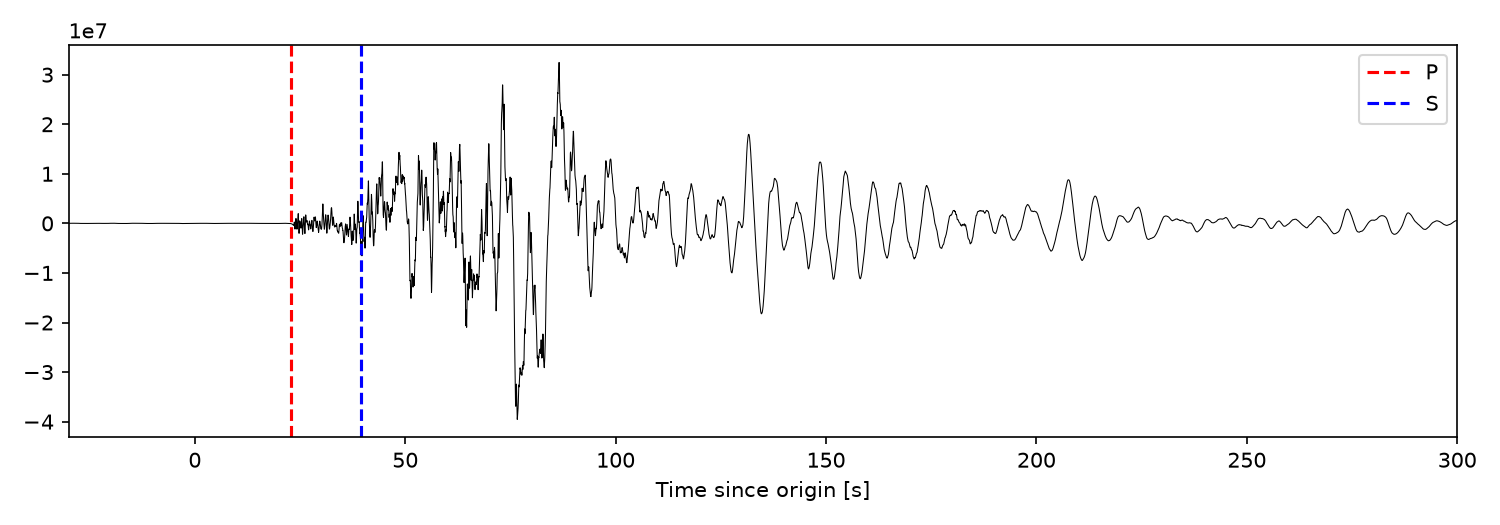
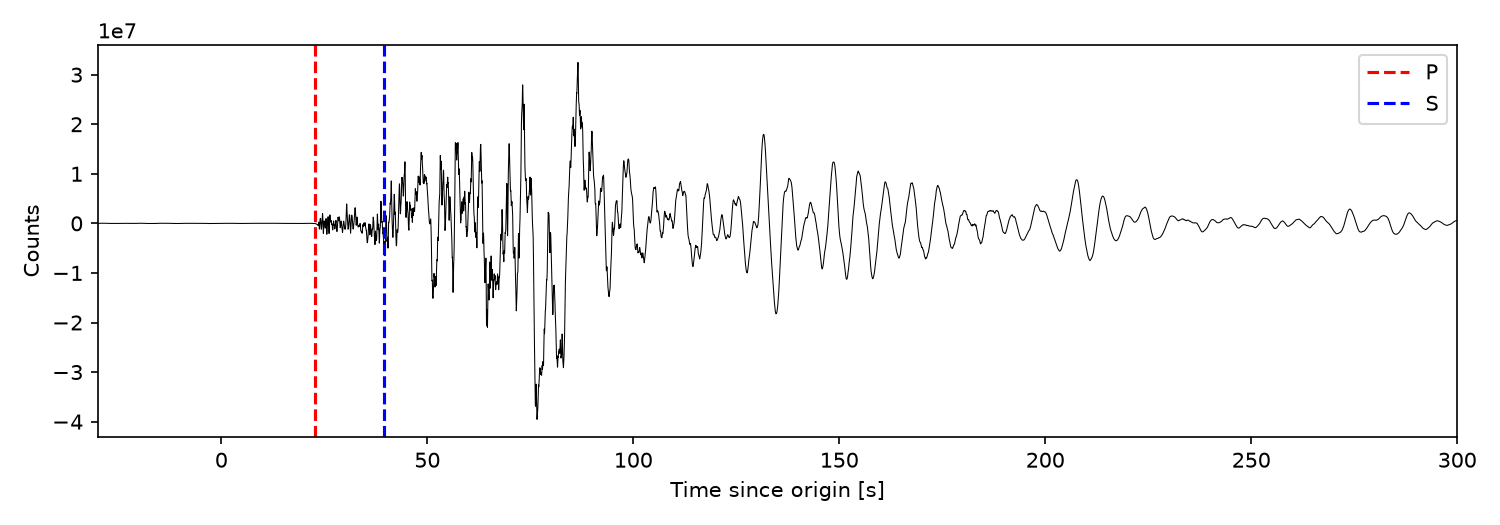
Add line-by-line comments to the tutorial scripts
Explain each line for beginners, split chained plot/save calls into
separate lines, and print travel times in a readable form.

diff --git a/02_plot.py b/02_plot.py
@@ -1,46 +1,90 @@
 """02: 波形をグラフにして、P 波・S 波の到着時刻を重ねる"""
-from pathlib import Path
 
-import matplotlib.pyplot as plt
-from obspy import read, read_events, read_inventory
-from obspy.geodetics import gps2dist_azimuth, kilometers2degrees
-from obspy.taup import TauPyModel
+# ---------------------------------------------------------------
+# ライブラリの読み込み
+# ---------------------------------------------------------------
+from pathlib import Path  # フォルダやファイルのパスを扱う標準ライブラリ
 
+import matplotlib.pyplot as plt  # グラフを描くライブラリ
+from obspy import read, read_events, read_inventory  # 波形・震源情報・観測点情報を読み込む関数
+from obspy.geodetics import gps2dist_azimuth, kilometers2degrees  # 2 点間の距離を計算する関数
+from obspy.taup import TauPyModel  # 地震波が届く時刻（走時）を計算するクラス
+
+# 図を保存する fig フォルダを作る（すでにあれば何もしない）
 Path("fig").mkdir(exist_ok=True)
 
-st = read("data/noto_IU.MAJO.mseed")
-inv = read_inventory("data/IU.MAJO.xml")
-origin = read_events("data/noto_event.xml")[0].preferred_origin()
+# ---------------------------------------------------------------
+# 01 で保存したデータを読み込む
+# ---------------------------------------------------------------
+st = read("data/noto_IU.MAJO.mseed")        # 波形（Stream: 3 本の Trace が入っている）
+inv = read_inventory("data/IU.MAJO.xml")    # 観測点情報（位置・地震計の特性）
+events = read_events("data/noto_event.xml")  # 震源情報の一覧（今回は 1 件）
+origin = events[0].preferred_origin()        # 1 件目の地震の震源（発生時刻・緯度・経度・深さ）
 
-# plot() 一発
-st.plot(fig=plt.figure(figsize=(8, 6))).savefig("fig/01_raw_stream.png")
+# ---------------------------------------------------------------
+# 1. plot() で 3 方向の波形をまとめて描く
+# ---------------------------------------------------------------
+fig1 = plt.figure(figsize=(8, 6))     # 横 8 × 縦 6 インチの図を用意する
+st.plot(fig=fig1)                     # その図に、3 本の波形を上下に並べて描く
+fig1.savefig("fig/01_raw_stream.png")  # 図を画像ファイルとして保存する
 
-# 震源から観測点までの距離
+# ---------------------------------------------------------------
+# 2. 震源から観測点までの距離を計算する
+# ---------------------------------------------------------------
+# 観測点の緯度・経度を取り出す
 coords = inv.get_coordinates(st[0].id, origin.time)
-dist_m, _, _ = gps2dist_azimuth(origin.latitude, origin.longitude,
-                                coords["latitude"], coords["longitude"])
 
-# P 波・S 波が届く時刻を計算
-arrivals = TauPyModel("iasp91").get_travel_times(
-    source_depth_in_km=origin.depth / 1000,
-    distance_in_degree=kilometers2degrees(dist_m / 1000),
-    phase_list=["p", "P", "s", "S"],
+# 震源（緯度・経度）と観測点（緯度・経度）の距離を計算する
+dist_m, _, _ = gps2dist_azimuth(
+    origin.latitude,       # 震源の緯度
+    origin.longitude,      # 震源の経度
+    coords["latitude"],    # 観測点の緯度
+    coords["longitude"],   # 観測点の経度
+)  # 戻り値は (距離[m], 方位角, 逆方位角)。今回は距離だけ使う
+
+# ---------------------------------------------------------------
+# 3. P 波・S 波が届く時刻を計算する
+# ---------------------------------------------------------------
+# 地球内部の標準的な速度構造モデル「iasp91」を使う
+model = TauPyModel("iasp91")
+
+# 震源の深さと距離から、各地震波が届くまでの時間を計算する
+arrivals = model.get_travel_times(
+    source_depth_in_km=origin.depth / 1000,                 # 震源の深さ（m → km に変換）
+    distance_in_degree=kilometers2degrees(dist_m / 1000),   # 距離（m → km → 角度[°] に変換）
+    phase_list=["p", "P", "s", "S"],                        # 計算する波の種類（小文字は浅い経路の波）
 )
-first = {}
-for arr in arrivals:
-    first.setdefault(arr.name.upper(), arr.time)
-print(first)
 
-# 地震発生からの秒数を横軸にしてプロット
-tr = st.select(channel="BHZ")[0]
-plt.figure(figsize=(10, 3.5))
-plt.plot(tr.times(reftime=origin.time), tr.data, "k-", lw=0.5)
-for name, sec in first.items():
-    plt.axvline(sec, color="red" if name == "P" else "blue", ls="--", label=name)
-plt.xlim(-30, 300)
-plt.xlabel("Time since origin [s]")
-plt.legend()
-plt.tight_layout()
-plt.savefig("fig/02_bhz_with_taup.png", dpi=150)
+# 「P 系」「S 系」それぞれで、いちばん早く届く時刻だけを辞書に入れる
+first = {}                                         # 例: {"P": 22.8, "S": 39.5}
+for arr in arrivals:                               # 計算結果を早く届く順に 1 つずつ見る
+    first.setdefault(arr.name.upper(), arr.time)   # 名前を大文字にそろえ、まだ無ければ登録する
 
-plt.show()  # 図をウィンドウで表示（閉じるとスクリプトが終わります）
+# 計算結果を表示する（地震発生から何秒後に届くか）
+for name, sec in first.items():                      # P 波・S 波それぞれについて
+    print(f"{name} 波: 地震発生から {sec:.1f} 秒後")  # 小数第 1 位まで表示する
+
+# ---------------------------------------------------------------
+# 4. 上下方向の波形に、P 波・S 波の時刻を重ねて描く
+# ---------------------------------------------------------------
+tr = st.select(channel="BHZ")[0]      # 3 本の中から上下方向（Z）の波形を 1 本取り出す
+t = tr.times(reftime=origin.time)     # 横軸用の時刻: 地震発生を 0 秒とした経過時間の配列
+
+fig2 = plt.figure(figsize=(10, 3.5))   # 横長の図を用意する
+plt.plot(t, tr.data, "k-", lw=0.5)     # 波形を黒い細線で描く（tr.data は振幅の NumPy 配列）
+
+for name, sec in first.items():                   # P 波・S 波それぞれについて
+    color = "red" if name == "P" else "blue"      # P 波は赤、S 波は青にする
+    plt.axvline(sec, color=color, ls="--", label=name)  # 届く時刻に縦の点線を引く
+
+plt.xlim(-30, 300)                        # 横軸の範囲: 地震発生の 30 秒前 〜 300 秒後
+plt.xlabel("Time since origin [s]")       # 横軸のラベル: 地震発生からの経過時間
+plt.ylabel("Counts")                      # 縦軸のラベル: 地震計の生の出力値
+plt.legend()                              # 凡例（P / S）を表示する
+plt.tight_layout()                        # 文字が見切れないように余白を調整する
+fig2.savefig("fig/02_bhz_with_taup.png", dpi=150)  # 画像ファイルとして保存する
+
+# ---------------------------------------------------------------
+# 作った図をウィンドウで表示する（すべて閉じるとスクリプトが終わる）
+# ---------------------------------------------------------------
+plt.show()

diff --git a/04_spectrum.py b/04_spectrum.py
@@ -1,34 +1,65 @@
 """04: 周波数を調べる（FFT・スペクトログラム）"""
-import matplotlib.pyplot as plt
-import numpy as np
-from obspy import read, read_events
 
-st_vel = read("data/noto_IU.MAJO_vel.mseed")  # 03 で作った速度波形
-origin = read_events("data/noto_event.xml")[0].preferred_origin()
+# ---------------------------------------------------------------
+# ライブラリの読み込み
+# ---------------------------------------------------------------
+import matplotlib.pyplot as plt  # グラフを描くライブラリ
+import numpy as np  # 数値計算ライブラリ（FFT に使う）
+from obspy import read, read_events  # 波形・震源情報を読み込む関数
 
-tr = st_vel.select(channel="BHZ")[0]
-fs = tr.stats.sampling_rate
+# ---------------------------------------------------------------
+# データを読み込む
+# ---------------------------------------------------------------
+st_vel = read("data/noto_IU.MAJO_vel.mseed")  # 03 で保存した速度 [m/s] の波形
+events = read_events("data/noto_event.xml")   # 震源情報の一覧（今回は 1 件）
+origin = events[0].preferred_origin()          # 1 件目の地震の震源（発生時刻など）
 
-# FFT で地震前と地震後を比べる
-noise = tr.slice(origin.time - 110, origin.time - 10)   # 地震前の 100 秒
-signal = tr.slice(origin.time + 10, origin.time + 110)  # 地震後の 100 秒
+tr = st_vel.select(channel="BHZ")[0]   # 上下方向（Z）の波形を 1 本取り出す
+fs = tr.stats.sampling_rate            # サンプリング周波数（1 秒あたりのデータ数。今回は 40）
 
-for w, label in [(noise, "before earthquake"), (signal, "after earthquake")]:
-    amp = np.abs(np.fft.rfft(w.data)) / fs
-    freq = np.fft.rfftfreq(w.stats.npts, d=1 / fs)
-    plt.loglog(freq[1:], amp[1:], label=label)
-plt.xlabel("Frequency [Hz]")
-plt.legend()
-plt.savefig("fig/04_fft.png", dpi=150)
+# ---------------------------------------------------------------
+# 1. FFT で「地震前」と「地震後」の周波数の成分を比べる
+# ---------------------------------------------------------------
+# 比べる 2 つの区間を切り出す（どちらも 100 秒間）
+noise = tr.slice(origin.time - 110, origin.time - 10)   # 地震前: 発生の 110 秒前 〜 10 秒前
+signal = tr.slice(origin.time + 10, origin.time + 110)  # 地震後: 発生の 10 秒後 〜 110 秒後
 
-# スペクトログラム
-fig, ax = plt.subplots(figsize=(10, 4))
-tr.slice(origin.time - 60, origin.time + 600).spectrogram(
-    log=True, wlen=20, per_lap=0.9, dbscale=True, axes=ax
+fig1 = plt.figure(figsize=(7, 4.5))   # 図を用意する
+
+for w, label in [(noise, "before earthquake"), (signal, "after earthquake")]:  # 2 つの区間を順に
+    amp = np.abs(np.fft.rfft(w.data)) / fs                # FFT して、各周波数の振幅を求める
+    freq = np.fft.rfftfreq(w.stats.npts, d=1 / fs)        # 振幅の配列に対応する周波数 [Hz] の配列
+    plt.loglog(freq[1:], amp[1:], label=label)            # 両対数グラフで描く（0 Hz は除く）
+
+plt.xlabel("Frequency [Hz]")        # 横軸のラベル: 周波数
+plt.ylabel("Amplitude")             # 縦軸のラベル: 振幅
+plt.legend()                        # 凡例（地震前 / 地震後）を表示する
+plt.tight_layout()                  # 文字が見切れないように余白を調整する
+fig1.savefig("fig/04_fft.png", dpi=150)  # 画像ファイルとして保存する
+
+# ---------------------------------------------------------------
+# 2. スペクトログラムで「いつ・どの周波数が強いか」を見る
+# ---------------------------------------------------------------
+fig2, ax = plt.subplots(figsize=(10, 4))   # 図と、描画する領域（ax）を用意する
+
+# 地震発生の 60 秒前 〜 600 秒後 を切り出す
+tr_part = tr.slice(origin.time - 60, origin.time + 600)
+
+# スペクトログラムを描く
+tr_part.spectrogram(
+    log=True,       # 縦軸（周波数）を対数目盛にする
+    wlen=20,        # 20 秒ずつの区間に分けて FFT する
+    per_lap=0.9,    # 区間を 90% ずつ重ねながらずらす（なめらかな図になる）
+    dbscale=True,   # 色の強さをデシベル（対数）で表す
+    axes=ax,        # 用意した領域に描く
 )
-ax.set_ylim(0.05, 20)
-ax.set_xlabel("Time [s]")
-ax.set_ylabel("Frequency [Hz]")
-fig.savefig("fig/04_spectrogram.png", dpi=150)
 
-plt.show()  # 図をウィンドウで表示（閉じるとスクリプトが終わります）
+ax.set_ylim(0.05, 20)             # 縦軸の範囲: 0.05〜20 Hz
+ax.set_xlabel("Time [s]")          # 横軸のラベル: 切り出した区間の先頭からの秒数
+ax.set_ylabel("Frequency [Hz]")    # 縦軸のラベル: 周波数
+fig2.savefig("fig/04_spectrogram.png", dpi=150)  # 画像ファイルとして保存する
+
+# ---------------------------------------------------------------
+# 作った図をウィンドウで表示する（すべて閉じるとスクリプトが終わる）
+# ---------------------------------------------------------------
+plt.show()

diff --git a/01_fetch_data.py b/01_fetch_data.py
@@ -1,26 +1,72 @@
 """01: 地震の情報と波形をダウンロードして保存する"""
-from pathlib import Path
 
-from obspy import UTCDateTime
-from obspy.clients.fdsn import Client
+# ---------------------------------------------------------------
+# ライブラリの読み込み
+# ---------------------------------------------------------------
+from pathlib import Path  # フォルダやファイルのパスを扱う標準ライブラリ
 
+from obspy import UTCDateTime  # 地震学でよく使う「UTC の日時」を扱うクラス
+from obspy.clients.fdsn import Client  # 世界のデータセンターからデータを取ってくるクライアント
+
+# データを保存する data フォルダを作る（すでにあれば何もしない）
 Path("data").mkdir(exist_ok=True)
 
-# 震源情報を検索（時刻は UTC）
+# ---------------------------------------------------------------
+# 1. 震源情報（いつ・どこで・どれくらいの地震か）を検索する
+# ---------------------------------------------------------------
+# 能登半島地震の発生時刻のあたりを指定する
+# （日本時間 2024/1/1 16:10 = UTC 07:10。地震のデータは UTC で扱うのが基本）
 t = UTCDateTime("2024-01-01T07:10:00")
-cat = Client("USGS").get_events(starttime=t - 300, endtime=t + 300, minmagnitude=7.0)
-origin = cat[0].preferred_origin()
+
+# USGS（アメリカ地質調査所）のデータセンターに接続する
+usgs = Client("USGS")
+
+# 指定した時刻の前後 5 分（300 秒）に起きた、M7.0 以上の地震を検索する
+cat = usgs.get_events(starttime=t - 300, endtime=t + 300, minmagnitude=7.0)
+
+# 見つかった地震の一覧を表示する（今回は 1 件だけ見つかる）
 print(cat)
 
-# 波形と観測点の情報をダウンロード
+# 1 件目の地震の「震源情報（発生時刻・緯度・経度・深さ）」を取り出す
+origin = cat[0].preferred_origin()
+
+# ---------------------------------------------------------------
+# 2. 地震波形と観測点の情報をダウンロードする
+# ---------------------------------------------------------------
+# EarthScope（旧 IRIS）のデータセンターに接続する
 client = Client("EARTHSCOPE")
-t1, t2 = origin.time - 120, origin.time + 30 * 60
-st = client.get_waveforms("IU", "MAJO", "00", "BH?", t1, t2)
-inv = client.get_stations(network="IU", station="MAJO", location="00", channel="BH?",
-                          starttime=t1, endtime=t2, level="response")
+
+# ダウンロードする時間の範囲: 地震発生の 2 分前 から 30 分後 まで
+t1 = origin.time - 120      # 開始時刻（秒単位で足し引きできる）
+t2 = origin.time + 30 * 60  # 終了時刻（30 分 = 30 × 60 秒）
+
+# 波形データをダウンロードする
+st = client.get_waveforms(
+    "IU",     # 観測網: IU = 世界中に観測点がある Global Seismographic Network
+    "MAJO",   # 観測点: MAJO = 長野県・松代
+    "00",     # ロケーション: 同じ観測点にある複数の地震計を区別する番号
+    "BH?",    # チャンネル: BH = 広帯域地震計、? = 3 方向（Z/1/2）をまとめて
+    t1,       # 開始時刻
+    t2,       # 終了時刻
+)
+
+# 観測点の情報（位置・地震計の特性）をダウンロードする
+inv = client.get_stations(
+    network="IU",       # 観測網
+    station="MAJO",     # 観測点
+    location="00",      # ロケーション
+    channel="BH?",      # チャンネル
+    starttime=t1,       # この期間に使われていた地震計の情報を取る
+    endtime=t2,
+    level="response",   # 地震計の特性（計器応答）まで含めて取る。03 で使う
+)
+
+# ダウンロードした波形の概要を表示する（3 本の波形が入っている）
 print(st)
 
-# 保存しておく
-cat.write("data/noto_event.xml", format="QUAKEML")
-st.write("data/noto_IU.MAJO.mseed", format="MSEED")
-inv.write("data/IU.MAJO.xml", format="STATIONXML")
+# ---------------------------------------------------------------
+# 3. ファイルに保存する（02 以降のスクリプトはこれを読み込む）
+# ---------------------------------------------------------------
+cat.write("data/noto_event.xml", format="QUAKEML")    # 震源情報 → QuakeML 形式
+st.write("data/noto_IU.MAJO.mseed", format="MSEED")   # 波形 → MiniSEED 形式
+inv.write("data/IU.MAJO.xml", format="STATIONXML")    # 観測点情報 → StationXML 形式

diff --git a/03_preprocess.py b/03_preprocess.py
@@ -1,23 +1,65 @@
 """03: 揺れの大きさを「速度 [m/s]」に直す・フィルタをかける"""
-import matplotlib.pyplot as plt
-from obspy import read, read_inventory
 
-st = read("data/noto_IU.MAJO.mseed")
-inv = read_inventory("data/IU.MAJO.xml")
+# ---------------------------------------------------------------
+# ライブラリの読み込み
+# ---------------------------------------------------------------
+import matplotlib.pyplot as plt  # グラフを描くライブラリ
+from obspy import read, read_inventory  # 波形・観測点情報を読み込む関数
 
-st_vel = st.copy()            # 元のデータは残しておく
+# ---------------------------------------------------------------
+# 01 で保存したデータを読み込む
+# ---------------------------------------------------------------
+st = read("data/noto_IU.MAJO.mseed")      # 波形（単位は counts = 地震計の生の出力値）
+inv = read_inventory("data/IU.MAJO.xml")  # 観測点情報（地震計の特性 = 計器応答 が入っている）
+
+# ---------------------------------------------------------------
+# 1. 計器応答を取り除いて、地面が動いた「速度 [m/s]」に直す
+# ---------------------------------------------------------------
+# ObsPy の処理は元のデータを直接書き換えるので、コピーしてから処理する
+st_vel = st.copy()
+
+# 波形全体の平均値を引いて、0 を中心に揺れるようにする
 st_vel.detrend("demean")
+
+# 波形の両端 5% をなめらかに 0 へ近づける（端の急な変化があると計算が乱れるため）
 st_vel.taper(max_percentage=0.05)
-st_vel.remove_response(inventory=inv, output="VEL", pre_filt=(0.005, 0.01, 8.0, 10.0))
-st_vel.plot(fig=plt.figure(figsize=(8, 6))).savefig("fig/03_velocity.png")
 
-for tr in st_vel:
-    print(f"{tr.id}: 最大 {abs(tr.data).max() * 100:.2f} cm/s")
+# 地震計の特性を取り除いて、物理量に変換する
+st_vel.remove_response(
+    inventory=inv,                       # 地震計の特性が入った観測点情報
+    output="VEL",                        # 出力: "VEL"=速度[m/s]（"DISP"=変位、"ACC"=加速度 も選べる）
+    pre_filt=(0.005, 0.01, 8.0, 10.0),   # 計算を安定させるため、0.01〜8 Hz 以外を弱めるフィルタ
+)
 
-# 10〜50 秒周期のゆっくりした揺れだけを見る
-st_bp = st_vel.copy().filter("bandpass", freqmin=0.02, freqmax=0.1)
-st_bp.plot(fig=plt.figure(figsize=(8, 6))).savefig("fig/03_bandpass.png")
+# 速度に直した 3 本の波形を描いて保存する
+fig1 = plt.figure(figsize=(8, 6))      # 図を用意する
+st_vel.plot(fig=fig1)                  # 3 本の波形を描く（縦軸が m/s になっている）
+fig1.savefig("fig/03_velocity.png")    # 画像ファイルとして保存する
 
+# 各方向の最大の速さを表示する
+for tr in st_vel:                          # 3 本の波形を 1 本ずつ見る
+    max_vel = abs(tr.data).max()           # 振幅の絶対値の最大値 [m/s]
+    print(f"{tr.id}: 最大 {max_vel * 100:.2f} cm/s")  # m/s → cm/s に直して表示する
+
+# ---------------------------------------------------------------
+# 2. バンドパスフィルタで、ゆっくりした揺れだけを取り出す
+# ---------------------------------------------------------------
+st_bp = st_vel.copy()   # 速度の波形はこの後も使うので、コピーしてからフィルタをかける
+
+# 0.02〜0.1 Hz（周期 10〜50 秒）の成分だけを残す
+st_bp.filter("bandpass", freqmin=0.02, freqmax=0.1)
+
+# フィルタ後の波形を描いて保存する
+fig2 = plt.figure(figsize=(8, 6))      # 図を用意する
+st_bp.plot(fig=fig2)                   # 3 本の波形を描く
+fig2.savefig("fig/03_bandpass.png")    # 画像ファイルとして保存する
+
+# ---------------------------------------------------------------
+# 3. 速度の波形を保存する（04 で使う）
+# ---------------------------------------------------------------
 st_vel.write("data/noto_IU.MAJO_vel.mseed", format="MSEED")
 
-plt.show()  # 図をウィンドウで表示（閉じるとスクリプトが終わります）
+# ---------------------------------------------------------------
+# 作った図をウィンドウで表示する（すべて閉じるとスクリプトが終わる）
+# ---------------------------------------------------------------
+plt.show()
